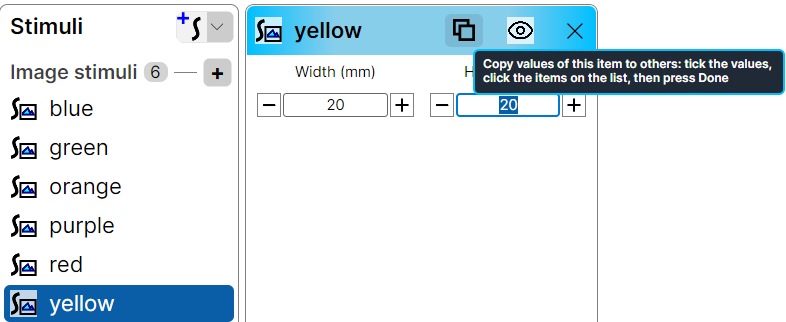
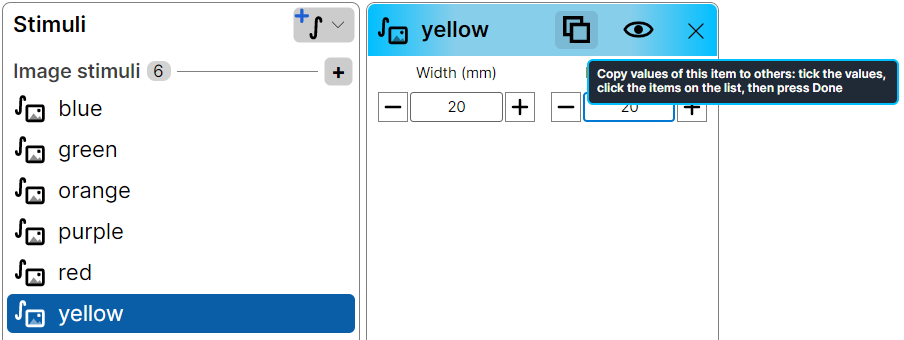
Recreated the screenshots and reworded Tutorial-2

Changed region(s): [[0.0, 0.0, 1.0, 0.3727], [0.0, 0.2795, 0.3969, 1.0], [0.3359, 0.2795, 0.3664, 0.3727]]

diff --git a/docs/tutorial-2-adding-stimuli.md b/docs/tutorial-2-adding-stimuli.md
@@ -2,19 +2,24 @@
 
 --8<-- "version-warning.md"
 
+On this page, we will tahe the first step towards building
+the test experiment **Colored Circles**
+that we toured on the first tutorial.
+e will add the colored circles as the image stimuli. 
+
 The **HurPsyDesign** interface starts out with an empty experiment
 that has a suggested temporary name and an empty description.
 The first step will be to type in a name and a description for the experiment
 by double-clicking the relevant text boxes at the top of the window.
 Here we name our experiment "Test-1"
-and describe it as the Colored Circles test experiment
-built on the designer interface,
-because on these pages we will build by hand
-the experiment that we toured in the first tutorial.
+and describe it as the "Colored Circles experiment
+built on the designer interface",
+which does describe what we are doing.
 
 ![The HurPsyDesign window with the name Test-1 and the description being typed in, and a tooltip saying "Double-click to edit."](images/tutorial-2/name-and-description.png)
 
-Next we want to add the six colored circles as image stimuli.
+Next we want to add the colored circles images
+that will serve as the visual stimuli.
 We click **Stimuli** in the **Item Definitions** column,
 open the list next to the plus button at the top of the **Stimuli** column,
 and choose **Image stimulus**.
@@ -70,7 +75,10 @@ while **Cancel** puts back the old values of all the ticked stimuli.
 
 ![The Copy to others panel with Width and Height ticked, the five other stimuli ticked in the list, and the tooltip of the Done button](images/tutorial-2/properties-copied-to-others.png)
 
-Finally, we should not forget to save the experiment
+That's all we did for this step.
+To make sure these changes will not be lost
+before we work on the next step,
+we now save the experiment
 with **Save** in the **File** menu.
 
 ![The File menu with Save highlighted](images/tutorial-2/dont-forget-to-save.png)
